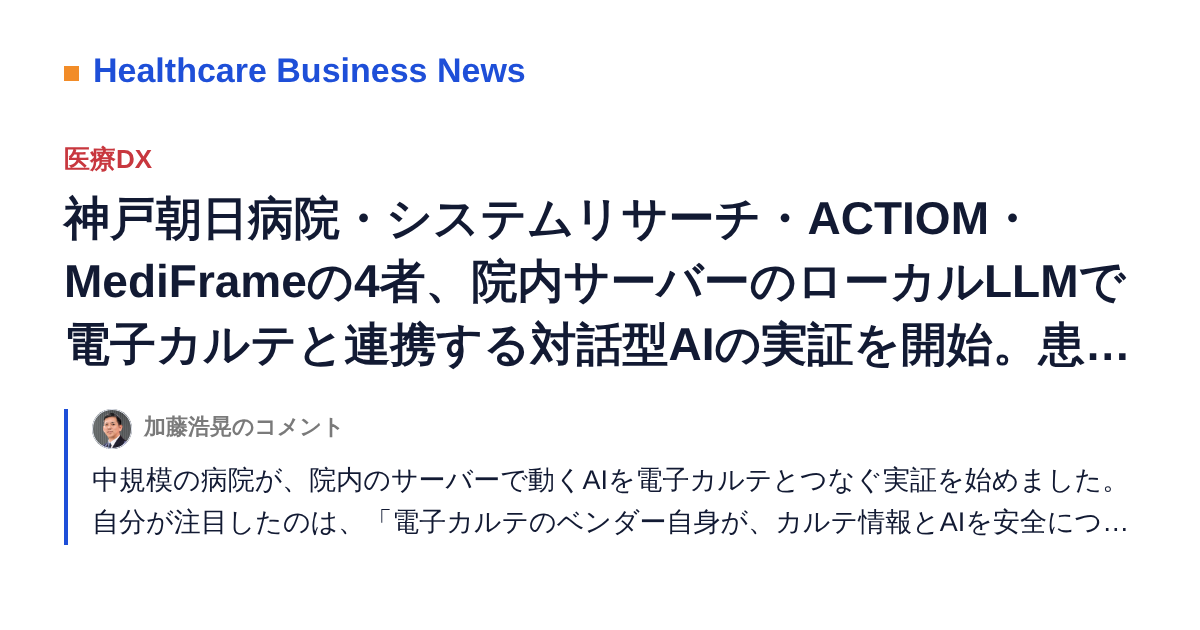
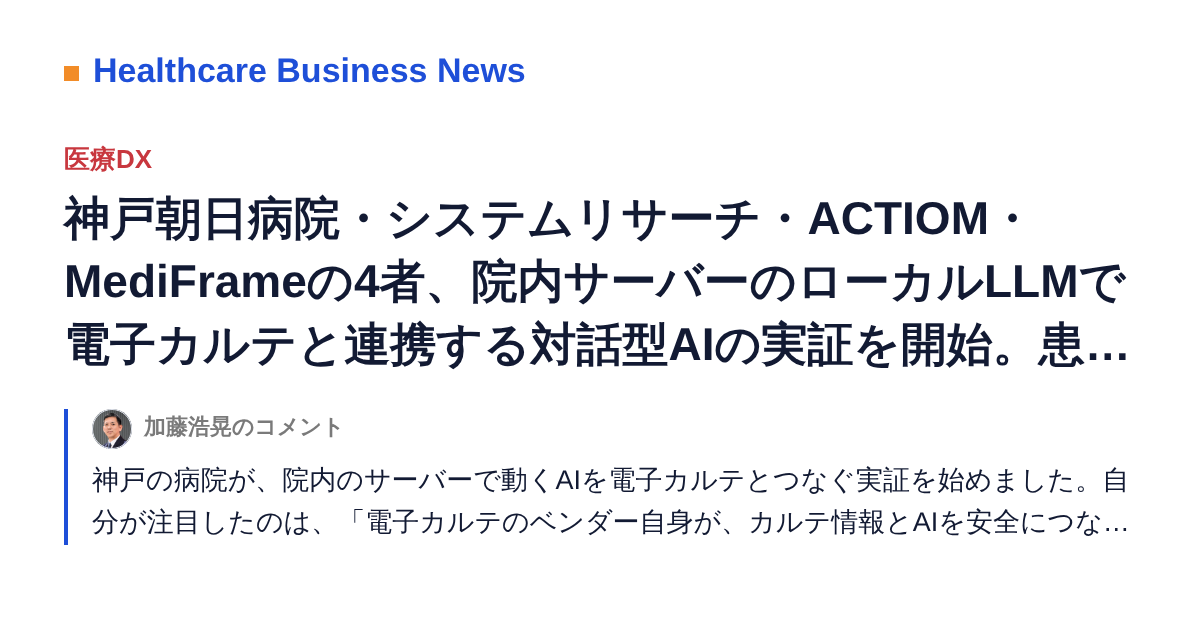
Web: 記事のリンク用カードを更新

Changed region(s): [[0.0617, 0.7238, 0.9558, 0.8746]]

diff --git a/article/2df671ed-3434-4ef1-aedf-7de839b62a33.html b/article/2df671ed-3434-4ef1-aedf-7de839b62a33.html
@@ -447,4 +447,4 @@ input::-webkit-search-cancel-button,input::-webkit-search-decoration,input::-web
 @keyframes r-1pzkwqh{0%{transform:translateY(100%);}100%{transform:translateY(0%);}}
 @keyframes r-imtty0{0%{opacity:0;}100%{opacity:1;}}
 @keyframes r-q67da2{0%{transform:translateX(-100%);}100%{transform:translateX(400%);}}
-@keyframes r-t2lo5v{0%{opacity:1;}100%{opacity:0;}}</style><link rel="stylesheet" href="/healthbiz-news/_expo/static/css/native-tabs.module-78b0f59737571f455720970791a36bdd.css"/><link rel="stylesheet" href="/healthbiz-news/_expo/static/css/global-313a0104f747083fa8b83096f125922a.css"/><link rel="manifest" href="/healthbiz-news/manifest.json"><meta name="apple-mobile-web-app-capable" content="yes"><meta name="mobile-web-app-capable" content="yes"><meta name="apple-mobile-web-app-status-bar-style" content="default"><meta name="apple-mobile-web-app-title" content="HB News"><link rel="apple-touch-icon" href="/healthbiz-news/apple-touch-icon.png"><meta name="theme-color" content="#1E4FD8"><style>.hb-topband{display:none}@media (display-mode: standalone){.hb-topband{display:block;position:fixed;top:0;left:0;right:0;height:12px;background:#FFFFFF;z-index:2147483647;pointer-events:none}}@media (display-mode: standalone) and (prefers-color-scheme: dark){.hb-topband{background:#111214}}</style><script async src="https://www.googletagmanager.com/gtag/js?id=G-PYC7DZRBKW"></script><script>window.dataLayer=window.dataLayer||[];function gtag(){dataLayer.push(arguments);}window.gtag=gtag;gtag('js',new Date());gtag('config','G-PYC7DZRBKW',{send_page_view:false,anonymize_ip:true});</script><title>神戸朝日病院・システムリサーチ・ACTIOM・MediFrameの4者、院内サーバーのローカルLLMで電子カルテと連携する対話型AIの実証を開始。患者情報を外部に送らず文書作成や検索を支援｜Healthcare Business News</title><meta name="description" content="中規模の病院が、院内のサーバーで動くAIを電子カルテとつなぐ実証を始めました。自分が注目したのは、「電子カルテのベンダー自身が、カルテ情報とAIを安全につなぐ仕組みを支援している」ところです。病院のAI導入で一番の壁は情"><meta property="og:type" content="article"><meta property="og:site_name" content="Healthcare Business News"><meta property="og:title" content="神戸朝日病院・システムリサーチ・ACTIOM・MediFrameの4者、院内サーバーのローカルLLMで電子カルテと連携する対話型AIの実証を開始。患者情報を外部に送らず文書作成や検索を支援"><meta property="og:description" content="中規模の病院が、院内のサーバーで動くAIを電子カルテとつなぐ実証を始めました。自分が注目したのは、「電子カルテのベンダー自身が、カルテ情報とAIを安全につなぐ仕組みを支援している」ところです。病院のAI導入で一番の壁は情"><meta property="og:url" content="https://hirokato-med.github.io/healthbiz-news/article/2df671ed-3434-4ef1-aedf-7de839b62a33"><meta property="og:image" content="https://hirokato-med.github.io/healthbiz-news/og/2df671ed-3434-4ef1-aedf-7de839b62a33.png?v=6a3915e9a84b"><meta property="og:image:width" content="1200"><meta property="og:image:height" content="630"><meta name="twitter:card" content="summary_large_image"></head><body><div id="root"><!--$--><div class="css-g5y9jx r-13awgt0"><!--$--><div style="position:absolute;left:0;right:0;top:0;bottom:0;pointer-events:none;visibility:hidden"></div><div class="css-g5y9jx r-13awgt0"><div class="css-g5y9jx r-13awgt0 r-1p0dtai r-1d2f490 r-u8s1d r-zchlnj r-ipm5af" style="background-color:rgba(242,242,242,1.00);display:flex"><div class="css-g5y9jx r-13awgt0"><div class="css-g5y9jx r-13awgt0"><!--$--><div style="position:absolute;left:0;right:0;top:0;bottom:0;pointer-events:none;visibility:hidden"></div><div class="css-g5y9jx r-13awgt0" style="flex-direction:column"><div class="css-g5y9jx r-13awgt0 r-1udh08x"><div class="css-g5y9jx r-1p0dtai r-1d2f490 r-u8s1d r-zchlnj r-ipm5af" style="z-index:0"><div class="css-g5y9jx r-13awgt0" style="background-color:rgba(242,242,242,1.00)"><div class="css-g5y9jx r-13awgt0"><!--$--><div class="css-g5y9jx r-13awgt0" style="background-color:rgba(255,255,255,1.00)"><div class="css-g5y9jx" style="padding-top:18px"><div class="css-g5y9jx"><div class="css-g5y9jx r-1awozwy r-18u37iz r-1wtj0ep r-iphfwy r-3pj75a"><div class="css-g5y9jx"><div dir="auto" class="css-146c3p1 r-b88u0q r-hbpseb r-1i10wst" style="color:rgba(18,26,51,1.00);font-family:var(--font-sans)">Healthcare Business News</div><div dir="auto" class="css-146c3p1 r-1gkfh8e r-1f529hi" style="color:rgba(122,122,122,1.00);font-family:var(--font-sans)">加藤浩晃のヘルスケアビジネスニュース</div></div><div class="css-g5y9jx r-obd0qt r-ojf8lh"><div dir="auto" class="css-146c3p1 r-1enofrn r-1cwl3u0 r-1ghxqbu" style="color:rgba(122,122,122,1.00);font-family:var(--font-sans)">11月14日（土）</div><button aria-label="記事を検索" role="button" tabindex="0" class="css-g5y9jx r-1loqt21 r-1otgn73 r-kdyh1x r-cnw61z r-is05cd" style="background-color:rgba(242,245,253,1.00);opacity:1" type="button"><div dir="auto" class="css-146c3p1 r-1enofrn r-1cwl3u0" style="font-family:var(--font-sans);color:rgba(30,79,216,1.00);font-weight:700">🔍 検索</div></button></div></div><div class="css-g5y9jx r-150rngu r-18u37iz r-1wbh5a2 r-lltvgl r-buy8e9 r-agouwx r-qklmqi r-18kxxzh r-2eszeu" style="border-bottom-color:rgba(227,231,240,1.00)"><div class="css-g5y9jx r-18u37iz r-is05cd"><div role="tab" tabindex="0" class="css-g5y9jx r-1loqt21 r-1otgn73 r-1cmwbt1 r-3o4zer r-ttdzmv"><div dir="auto" class="css-146c3p1 r-a023e6 r-rjixqe" style="font-family:var(--font-sans);color:rgba(30,79,216,1.00);font-weight:700">トップ</div><div class="css-g5y9jx r-1iymjk7 r-s2skl2 r-1hlnpa" style="background-color:rgba(30,79,216,1.00)"></div></div><div role="tab" tabindex="0" class="css-g5y9jx r-1loqt21 r-1otgn73 r-1cmwbt1 r-3o4zer r-ttdzmv"><div dir="auto" class="css-146c3p1 r-a023e6 r-rjixqe" style="font-family:var(--font-sans);color:rgba(122,122,122,1.00);font-weight:500">医療機器</div><div class="css-g5y9jx r-1iymjk7 r-s2skl2 r-1hlnpa" style="background-color:rgba(0,0,0,0.00)"></div></div><div role="tab" tabindex="0" class="css-g5y9jx r-1loqt21 r-1otgn73 r-1cmwbt1 r-3o4zer r-ttdzmv"><div dir="auto" class="css-146c3p1 r-a023e6 r-rjixqe" style="font-family:var(--font-sans);color:rgba(122,122,122,1.00);font-weight:500">ウェアラブル</div><div class="css-g5y9jx r-1iymjk7 r-s2skl2 r-1hlnpa" style="background-color:rgba(0,0,0,0.00)"></div></div><div role="tab" tabindex="0" class="css-g5y9jx r-1loqt21 r-1otgn73 r-1cmwbt1 r-3o4zer r-ttdzmv"><div dir="auto" class="css-146c3p1 r-a023e6 r-rjixqe" style="font-family:var(--font-sans);color:rgba(122,122,122,1.00);font-weight:500">ロンジェビティ</div><div class="css-g5y9jx r-1iymjk7 r-s2skl2 r-1hlnpa" style="background-color:rgba(0,0,0,0.00)"></div></div><div role="tab" tabindex="0" class="css-g5y9jx r-1loqt21 r-1otgn73 r-1cmwbt1 r-3o4zer r-ttdzmv"><div dir="auto" class="css-146c3p1 r-a023e6 r-rjixqe" style="font-family:var(--font-sans);color:rgba(122,122,122,1.00);font-weight:500">製薬・創薬</div><div class="css-g5y9jx r-1iymjk7 r-s2skl2 r-1hlnpa" style="background-color:rgba(0,0,0,0.00)"></div></div><div role="tab" tabindex="0" class="css-g5y9jx r-1loqt21 r-1otgn73 r-1cmwbt1 r-3o4zer r-ttdzmv"><div dir="auto" class="css-146c3p1 r-a023e6 r-rjixqe" style="font-family:var(--font-sans);color:rgba(122,122,122,1.00);font-weight:500">デジタルヘルス</div><div class="css-g5y9jx r-1iymjk7 r-s2skl2 r-1hlnpa" style="background-color:rgba(0,0,0,0.00)"></div></div><div role="tab" tabindex="0" class="css-g5y9jx r-1loqt21 r-1otgn73 r-1cmwbt1 r-3o4zer r-ttdzmv"><div dir="auto" class="css-146c3p1 r-a023e6 r-rjixqe" style="font-family:var(--font-sans);color:rgba(122,122,122,1.00);font-weight:500">医療DX</div><div class="css-g5y9jx r-1iymjk7 r-s2skl2 r-1hlnpa" style="background-color:rgba(0,0,0,0.00)"></div></div><div role="tab" tabindex="0" class="css-g5y9jx r-1loqt21 r-1otgn73 r-1cmwbt1 r-3o4zer r-ttdzmv"><div dir="auto" class="css-146c3p1 r-a023e6 r-rjixqe" style="font-family:var(--font-sans);color:rgba(122,122,122,1.00);font-weight:500">ヘルスケアサービス</div><div class="css-g5y9jx r-1iymjk7 r-s2skl2 r-1hlnpa" style="background-color:rgba(0,0,0,0.00)"></div></div><div role="tab" tabindex="0" class="css-g5y9jx r-1loqt21 r-1otgn73 r-1cmwbt1 r-3o4zer r-ttdzmv"><div dir="auto" class="css-146c3p1 r-a023e6 r-rjixqe" style="font-family:var(--font-sans);color:rgba(122,122,122,1.00);font-weight:500">政策・規制</div><div class="css-g5y9jx r-1iymjk7 r-s2skl2 r-1hlnpa" style="background-color:rgba(0,0,0,0.00)"></div></div><div role="tab" tabindex="0" class="css-g5y9jx r-1loqt21 r-1otgn73 r-1cmwbt1 r-3o4zer r-ttdzmv"><div dir="auto" class="css-146c3p1 r-a023e6 r-rjixqe" style="font-family:var(--font-sans);color:rgba(122,122,122,1.00);font-weight:500">決算</div><div class="css-g5y9jx r-1iymjk7 r-s2skl2 r-1hlnpa" style="background-color:rgba(0,0,0,0.00)"></div></div><div role="tab" tabindex="0" class="css-g5y9jx r-1loqt21 r-1otgn73 r-1cmwbt1 r-3o4zer r-ttdzmv"><div dir="auto" class="css-146c3p1 r-a023e6 r-rjixqe" style="font-family:var(--font-sans);color:rgba(122,122,122,1.00);font-weight:500">海外</div><div class="css-g5y9jx r-1iymjk7 r-s2skl2 r-1hlnpa" style="background-color:rgba(0,0,0,0.00)"></div></div><div role="tab" tabindex="0" class="css-g5y9jx r-1loqt21 r-1otgn73 r-1cmwbt1 r-3o4zer r-ttdzmv"><div dir="auto" class="css-146c3p1 r-a023e6 r-rjixqe" style="font-family:var(--font-sans);color:rgba(122,122,122,1.00);font-weight:500">メルマガ</div><div class="css-g5y9jx r-1iymjk7 r-s2skl2 r-1hlnpa" style="background-color:rgba(0,0,0,0.00)"></div></div></div></div></div><button aria-label="記事を更新" role="button" tabindex="0" class="css-g5y9jx r-1loqt21 r-1otgn73 r-1yd117h r-3pj75a" style="background-color:rgba(242,245,253,1.00)" type="button"><div class="css-g5y9jx r-1awozwy r-18u37iz r-1ssbvtb"><div dir="auto" class="css-146c3p1 r-dnmrzs r-1udh08x r-1udbk01 r-3s2u2q r-1iln25a r-1enofrn r-1cwl3u0" style="color:rgba(122,122,122,1.00);font-family:var(--font-sans)">最新の配信</div><div dir="auto" class="css-146c3p1 r-dnmrzs r-1udh08x r-1udbk01 r-3s2u2q r-1iln25a r-1enofrn r-1cwl3u0 r-13awgt0 r-1ghxqbu r-b88u0q" style="font-family:var(--font-sans);color:rgba(122,122,122,1.00)">読み込み中…</div><div dir="auto" class="css-146c3p1 r-dnmrzs r-1udh08x r-1udbk01 r-3s2u2q r-1iln25a r-1enofrn r-1cwl3u0 r-1ghxqbu" style="color:rgba(122,122,122,1.00);font-family:var(--font-sans)"></div></div></button></div><div class="css-g5y9jx r-13awgt0"></div></div><!--/$--></div></div></div></div><div class="css-g5y9jx r-1p0dtai r-zchlnj r-1d2f490" style="pointer-events:auto;border-top-width:1px;border-right-color:rgba(216,216,216,1.00);border-bottom-color:rgba(216,216,216,1.00);border-left-color:rgba(216,216,216,1.00);height:49px;padding-bottom:0px;padding-top:0px;padding-right:0px;padding-left:0px;background-color:rgba(255,255,255,1.00);border-top-color:rgba(227,231,240,1.00);transform:translateY(0px)"><div class="css-g5y9jx r-1p0dtai r-1d2f490 r-u8s1d r-zchlnj r-ipm5af r-633pao"></div><div role="tablist" class="css-g5y9jx r-13awgt0 r-18u37iz"><div class="css-g5y9jx r-13awgt0" style="border-top-left-radius:0px;border-top-right-radius:0px;border-bottom-right-radius:0px;border-bottom-left-radius:0px;overflow-x:visible;overflow-y:visible"><a href="/healthbiz-news/" role="tab" aria-selected="true" tabindex="0" class="css-g5y9jx r-1otgn73 r-1awozwy r-1onu96p r-eqz5dr r-1h0z5md r-1uu6nss" style="cursor:pointer;flex:1;background-color:rgba(0,0,0,0.00);border-top-left-radius:0px;border-top-right-radius:0px;border-bottom-right-radius:0px;border-bottom-left-radius:0px;opacity:1"><div class="css-g5y9jx r-h0d30l r-726pan"><div class="css-g5y9jx r-1awozwy r-1kihuf0 r-1pi2tsx r-1777fci r-u8s1d r-13qz1uu" style="opacity:1;min-width:25px"><div dir="auto" class="css-146c3p1" style="color:rgba(30,79,216,1.00);font-size:18px">▤</div></div><div class="css-g5y9jx r-1awozwy r-1kihuf0 r-1pi2tsx r-1777fci r-u8s1d r-13qz1uu" style="opacity:0"><div dir="auto" class="css-146c3p1" style="color:rgba(122,122,122,1.00);font-size:18px">▤</div></div></div><div dir="auto" class="css-146c3p1 r-dnmrzs r-1udh08x r-1udbk01 r-3s2u2q r-1iln25a r-1niwhzg r-q4m81j r-10x49cs" style="color:rgba(30,79,216,1.00);font-family:system-ui, &quot;Segoe UI&quot;, Roboto, Helvetica, Arial, sans-serif, &quot;Apple Color Emoji&quot;, &quot;Segoe UI Emoji&quot;, &quot;Segoe UI Symbol&quot;;font-weight:500">トップ</div></a></div><div class="css-g5y9jx r-13awgt0" style="border-top-left-radius:0px;border-top-right-radius:0px;border-bottom-right-radius:0px;border-bottom-left-radius:0px;overflow-x:visible;overflow-y:visible"><a href="/healthbiz-news/saved" role="tab" aria-selected="false" tabindex="0" class="css-g5y9jx r-1otgn73 r-1awozwy r-1onu96p r-eqz5dr r-1h0z5md r-1uu6nss" style="cursor:pointer;flex:1;background-color:rgba(0,0,0,0.00);border-top-left-radius:0px;border-top-right-radius:0px;border-bottom-right-radius:0px;border-bottom-left-radius:0px;opacity:1"><div class="css-g5y9jx r-h0d30l r-726pan"><div class="css-g5y9jx r-1awozwy r-1kihuf0 r-1pi2tsx r-1777fci r-u8s1d r-13qz1uu" style="opacity:0;min-width:25px"><div dir="auto" class="css-146c3p1" style="color:rgba(30,79,216,1.00);font-size:18px">☆</div></div><div class="css-g5y9jx r-1awozwy r-1kihuf0 r-1pi2tsx r-1777fci r-u8s1d r-13qz1uu" style="opacity:1"><div dir="auto" class="css-146c3p1" style="color:rgba(122,122,122,1.00);font-size:18px">☆</div></div></div><div dir="auto" class="css-146c3p1 r-dnmrzs r-1udh08x r-1udbk01 r-3s2u2q r-1iln25a r-1niwhzg r-q4m81j r-10x49cs" style="color:rgba(122,122,122,1.00);font-family:system-ui, &quot;Segoe UI&quot;, Roboto, Helvetica, Arial, sans-serif, &quot;Apple Color Emoji&quot;, &quot;Segoe UI Emoji&quot;, &quot;Segoe UI Symbol&quot;;font-weight:500">保存</div></a></div><div class="css-g5y9jx r-13awgt0" style="border-top-left-radius:0px;border-top-right-radius:0px;border-bottom-right-radius:0px;border-bottom-left-radius:0px;overflow-x:visible;overflow-y:visible"><a href="/healthbiz-news/about" role="tab" aria-selected="false" tabindex="0" class="css-g5y9jx r-1otgn73 r-1awozwy r-1onu96p r-eqz5dr r-1h0z5md r-1uu6nss" style="cursor:pointer;flex:1;background-color:rgba(0,0,0,0.00);border-top-left-radius:0px;border-top-right-radius:0px;border-bottom-right-radius:0px;border-bottom-left-radius:0px;opacity:1"><div class="css-g5y9jx r-h0d30l r-726pan"><div class="css-g5y9jx r-1awozwy r-1kihuf0 r-1pi2tsx r-1777fci r-u8s1d r-13qz1uu" style="opacity:0;min-width:25px"><div dir="auto" class="css-146c3p1" style="color:rgba(30,79,216,1.00);font-size:18px">ⓘ</div></div><div class="css-g5y9jx r-1awozwy r-1kihuf0 r-1pi2tsx r-1777fci r-u8s1d r-13qz1uu" style="opacity:1"><div dir="auto" class="css-146c3p1" style="color:rgba(122,122,122,1.00);font-size:18px">ⓘ</div></div></div><div dir="auto" class="css-146c3p1 r-dnmrzs r-1udh08x r-1udbk01 r-3s2u2q r-1iln25a r-1niwhzg r-q4m81j r-10x49cs" style="color:rgba(122,122,122,1.00);font-family:system-ui, &quot;Segoe UI&quot;, Roboto, Helvetica, Arial, sans-serif, &quot;Apple Color Emoji&quot;, &quot;Segoe UI Emoji&quot;, &quot;Segoe UI Symbol&quot;;font-weight:500">このアプリ</div></a></div></div></div></div><!--/$--></div></div></div></div><!--/$--></div><!--/$--></div><script defer="" src="/healthbiz-news/_expo/static/js/web/__expo-metro-runtime-8c088df87a31e4e6accd81c554ec290d.js"></script><script defer="" src="/healthbiz-news/_expo/static/js/web/_layout-b9aab1fa9006b441d7601c25dd7ca37c.js"></script><script defer="" src="/healthbiz-news/_expo/static/js/web/_layout-8aafe5f985152c330af6f81e3dc0b4ce.js"></script><script defer="" src="/healthbiz-news/_expo/static/js/web/index-f62bc68591a5a53b5ec6327f08ef224e.js"></script><script defer="" src="/healthbiz-news/_expo/static/js/web/__common-1efa4f8851c3c26c5733a85f7bb25840.js"></script><script defer="" src="/healthbiz-news/_expo/static/js/web/entry-9b5d24407d312d65f34d2b1d7c96e683.js"></script><script id="_R_">globalThis.__EXPO_ROUTER_HYDRATE__=true;</script><div class="hb-topband" aria-hidden="true"></div></body></html>
+@keyframes r-t2lo5v{0%{opacity:1;}100%{opacity:0;}}</style><link rel="stylesheet" href="/healthbiz-news/_expo/static/css/native-tabs.module-78b0f59737571f455720970791a36bdd.css"/><link rel="stylesheet" href="/healthbiz-news/_expo/static/css/global-313a0104f747083fa8b83096f125922a.css"/><link rel="manifest" href="/healthbiz-news/manifest.json"><meta name="apple-mobile-web-app-capable" content="yes"><meta name="mobile-web-app-capable" content="yes"><meta name="apple-mobile-web-app-status-bar-style" content="default"><meta name="apple-mobile-web-app-title" content="HB News"><link rel="apple-touch-icon" href="/healthbiz-news/apple-touch-icon.png"><meta name="theme-color" content="#1E4FD8"><style>.hb-topband{display:none}@media (display-mode: standalone){.hb-topband{display:block;position:fixed;top:0;left:0;right:0;height:12px;background:#FFFFFF;z-index:2147483647;pointer-events:none}}@media (display-mode: standalone) and (prefers-color-scheme: dark){.hb-topband{background:#111214}}</style><script async src="https://www.googletagmanager.com/gtag/js?id=G-PYC7DZRBKW"></script><script>window.dataLayer=window.dataLayer||[];function gtag(){dataLayer.push(arguments);}window.gtag=gtag;gtag('js',new Date());gtag('config','G-PYC7DZRBKW',{send_page_view:false,anonymize_ip:true});</script><title>神戸朝日病院・システムリサーチ・ACTIOM・MediFrameの4者、院内サーバーのローカルLLMで電子カルテと連携する対話型AIの実証を開始。患者情報を外部に送らず文書作成や検索を支援｜Healthcare Business News</title><meta name="description" content="神戸の病院が、院内のサーバーで動くAIを電子カルテとつなぐ実証を始めました。自分が注目したのは、「電子カルテのベンダー自身が、カルテ情報とAIを安全につなぐ仕組みを支援している」ところです。病院のAI導入で一番の壁は情報"><meta property="og:type" content="article"><meta property="og:site_name" content="Healthcare Business News"><meta property="og:title" content="神戸朝日病院・システムリサーチ・ACTIOM・MediFrameの4者、院内サーバーのローカルLLMで電子カルテと連携する対話型AIの実証を開始。患者情報を外部に送らず文書作成や検索を支援"><meta property="og:description" content="神戸の病院が、院内のサーバーで動くAIを電子カルテとつなぐ実証を始めました。自分が注目したのは、「電子カルテのベンダー自身が、カルテ情報とAIを安全につなぐ仕組みを支援している」ところです。病院のAI導入で一番の壁は情報"><meta property="og:url" content="https://hirokato-med.github.io/healthbiz-news/article/2df671ed-3434-4ef1-aedf-7de839b62a33"><meta property="og:image" content="https://hirokato-med.github.io/healthbiz-news/og/2df671ed-3434-4ef1-aedf-7de839b62a33.png?v=44c1d07f7939"><meta property="og:image:width" content="1200"><meta property="og:image:height" content="630"><meta name="twitter:card" content="summary_large_image"></head><body><div id="root"><!--$--><div class="css-g5y9jx r-13awgt0"><!--$--><div style="position:absolute;left:0;right:0;top:0;bottom:0;pointer-events:none;visibility:hidden"></div><div class="css-g5y9jx r-13awgt0"><div class="css-g5y9jx r-13awgt0 r-1p0dtai r-1d2f490 r-u8s1d r-zchlnj r-ipm5af" style="background-color:rgba(242,242,242,1.00);display:flex"><div class="css-g5y9jx r-13awgt0"><div class="css-g5y9jx r-13awgt0"><!--$--><div style="position:absolute;left:0;right:0;top:0;bottom:0;pointer-events:none;visibility:hidden"></div><div class="css-g5y9jx r-13awgt0" style="flex-direction:column"><div class="css-g5y9jx r-13awgt0 r-1udh08x"><div class="css-g5y9jx r-1p0dtai r-1d2f490 r-u8s1d r-zchlnj r-ipm5af" style="z-index:0"><div class="css-g5y9jx r-13awgt0" style="background-color:rgba(242,242,242,1.00)"><div class="css-g5y9jx r-13awgt0"><!--$--><div class="css-g5y9jx r-13awgt0" style="background-color:rgba(255,255,255,1.00)"><div class="css-g5y9jx" style="padding-top:18px"><div class="css-g5y9jx"><div class="css-g5y9jx r-1awozwy r-18u37iz r-1wtj0ep r-iphfwy r-3pj75a"><div class="css-g5y9jx"><div dir="auto" class="css-146c3p1 r-b88u0q r-hbpseb r-1i10wst" style="color:rgba(18,26,51,1.00);font-family:var(--font-sans)">Healthcare Business News</div><div dir="auto" class="css-146c3p1 r-1gkfh8e r-1f529hi" style="color:rgba(122,122,122,1.00);font-family:var(--font-sans)">加藤浩晃のヘルスケアビジネスニュース</div></div><div class="css-g5y9jx r-obd0qt r-ojf8lh"><div dir="auto" class="css-146c3p1 r-1enofrn r-1cwl3u0 r-1ghxqbu" style="color:rgba(122,122,122,1.00);font-family:var(--font-sans)">11月14日（土）</div><button aria-label="記事を検索" role="button" tabindex="0" class="css-g5y9jx r-1loqt21 r-1otgn73 r-kdyh1x r-cnw61z r-is05cd" style="background-color:rgba(242,245,253,1.00);opacity:1" type="button"><div dir="auto" class="css-146c3p1 r-1enofrn r-1cwl3u0" style="font-family:var(--font-sans);color:rgba(30,79,216,1.00);font-weight:700">🔍 検索</div></button></div></div><div class="css-g5y9jx r-150rngu r-18u37iz r-1wbh5a2 r-lltvgl r-buy8e9 r-agouwx r-qklmqi r-18kxxzh r-2eszeu" style="border-bottom-color:rgba(227,231,240,1.00)"><div class="css-g5y9jx r-18u37iz r-is05cd"><div role="tab" tabindex="0" class="css-g5y9jx r-1loqt21 r-1otgn73 r-1cmwbt1 r-3o4zer r-ttdzmv"><div dir="auto" class="css-146c3p1 r-a023e6 r-rjixqe" style="font-family:var(--font-sans);color:rgba(30,79,216,1.00);font-weight:700">トップ</div><div class="css-g5y9jx r-1iymjk7 r-s2skl2 r-1hlnpa" style="background-color:rgba(30,79,216,1.00)"></div></div><div role="tab" tabindex="0" class="css-g5y9jx r-1loqt21 r-1otgn73 r-1cmwbt1 r-3o4zer r-ttdzmv"><div dir="auto" class="css-146c3p1 r-a023e6 r-rjixqe" style="font-family:var(--font-sans);color:rgba(122,122,122,1.00);font-weight:500">医療機器</div><div class="css-g5y9jx r-1iymjk7 r-s2skl2 r-1hlnpa" style="background-color:rgba(0,0,0,0.00)"></div></div><div role="tab" tabindex="0" class="css-g5y9jx r-1loqt21 r-1otgn73 r-1cmwbt1 r-3o4zer r-ttdzmv"><div dir="auto" class="css-146c3p1 r-a023e6 r-rjixqe" style="font-family:var(--font-sans);color:rgba(122,122,122,1.00);font-weight:500">ウェアラブル</div><div class="css-g5y9jx r-1iymjk7 r-s2skl2 r-1hlnpa" style="background-color:rgba(0,0,0,0.00)"></div></div><div role="tab" tabindex="0" class="css-g5y9jx r-1loqt21 r-1otgn73 r-1cmwbt1 r-3o4zer r-ttdzmv"><div dir="auto" class="css-146c3p1 r-a023e6 r-rjixqe" style="font-family:var(--font-sans);color:rgba(122,122,122,1.00);font-weight:500">ロンジェビティ</div><div class="css-g5y9jx r-1iymjk7 r-s2skl2 r-1hlnpa" style="background-color:rgba(0,0,0,0.00)"></div></div><div role="tab" tabindex="0" class="css-g5y9jx r-1loqt21 r-1otgn73 r-1cmwbt1 r-3o4zer r-ttdzmv"><div dir="auto" class="css-146c3p1 r-a023e6 r-rjixqe" style="font-family:var(--font-sans);color:rgba(122,122,122,1.00);font-weight:500">製薬・創薬</div><div class="css-g5y9jx r-1iymjk7 r-s2skl2 r-1hlnpa" style="background-color:rgba(0,0,0,0.00)"></div></div><div role="tab" tabindex="0" class="css-g5y9jx r-1loqt21 r-1otgn73 r-1cmwbt1 r-3o4zer r-ttdzmv"><div dir="auto" class="css-146c3p1 r-a023e6 r-rjixqe" style="font-family:var(--font-sans);color:rgba(122,122,122,1.00);font-weight:500">デジタルヘルス</div><div class="css-g5y9jx r-1iymjk7 r-s2skl2 r-1hlnpa" style="background-color:rgba(0,0,0,0.00)"></div></div><div role="tab" tabindex="0" class="css-g5y9jx r-1loqt21 r-1otgn73 r-1cmwbt1 r-3o4zer r-ttdzmv"><div dir="auto" class="css-146c3p1 r-a023e6 r-rjixqe" style="font-family:var(--font-sans);color:rgba(122,122,122,1.00);font-weight:500">医療DX</div><div class="css-g5y9jx r-1iymjk7 r-s2skl2 r-1hlnpa" style="background-color:rgba(0,0,0,0.00)"></div></div><div role="tab" tabindex="0" class="css-g5y9jx r-1loqt21 r-1otgn73 r-1cmwbt1 r-3o4zer r-ttdzmv"><div dir="auto" class="css-146c3p1 r-a023e6 r-rjixqe" style="font-family:var(--font-sans);color:rgba(122,122,122,1.00);font-weight:500">ヘルスケアサービス</div><div class="css-g5y9jx r-1iymjk7 r-s2skl2 r-1hlnpa" style="background-color:rgba(0,0,0,0.00)"></div></div><div role="tab" tabindex="0" class="css-g5y9jx r-1loqt21 r-1otgn73 r-1cmwbt1 r-3o4zer r-ttdzmv"><div dir="auto" class="css-146c3p1 r-a023e6 r-rjixqe" style="font-family:var(--font-sans);color:rgba(122,122,122,1.00);font-weight:500">政策・規制</div><div class="css-g5y9jx r-1iymjk7 r-s2skl2 r-1hlnpa" style="background-color:rgba(0,0,0,0.00)"></div></div><div role="tab" tabindex="0" class="css-g5y9jx r-1loqt21 r-1otgn73 r-1cmwbt1 r-3o4zer r-ttdzmv"><div dir="auto" class="css-146c3p1 r-a023e6 r-rjixqe" style="font-family:var(--font-sans);color:rgba(122,122,122,1.00);font-weight:500">決算</div><div class="css-g5y9jx r-1iymjk7 r-s2skl2 r-1hlnpa" style="background-color:rgba(0,0,0,0.00)"></div></div><div role="tab" tabindex="0" class="css-g5y9jx r-1loqt21 r-1otgn73 r-1cmwbt1 r-3o4zer r-ttdzmv"><div dir="auto" class="css-146c3p1 r-a023e6 r-rjixqe" style="font-family:var(--font-sans);color:rgba(122,122,122,1.00);font-weight:500">海外</div><div class="css-g5y9jx r-1iymjk7 r-s2skl2 r-1hlnpa" style="background-color:rgba(0,0,0,0.00)"></div></div><div role="tab" tabindex="0" class="css-g5y9jx r-1loqt21 r-1otgn73 r-1cmwbt1 r-3o4zer r-ttdzmv"><div dir="auto" class="css-146c3p1 r-a023e6 r-rjixqe" style="font-family:var(--font-sans);color:rgba(122,122,122,1.00);font-weight:500">メルマガ</div><div class="css-g5y9jx r-1iymjk7 r-s2skl2 r-1hlnpa" style="background-color:rgba(0,0,0,0.00)"></div></div></div></div></div><button aria-label="記事を更新" role="button" tabindex="0" class="css-g5y9jx r-1loqt21 r-1otgn73 r-1yd117h r-3pj75a" style="background-color:rgba(242,245,253,1.00)" type="button"><div class="css-g5y9jx r-1awozwy r-18u37iz r-1ssbvtb"><div dir="auto" class="css-146c3p1 r-dnmrzs r-1udh08x r-1udbk01 r-3s2u2q r-1iln25a r-1enofrn r-1cwl3u0" style="color:rgba(122,122,122,1.00);font-family:var(--font-sans)">最新の配信</div><div dir="auto" class="css-146c3p1 r-dnmrzs r-1udh08x r-1udbk01 r-3s2u2q r-1iln25a r-1enofrn r-1cwl3u0 r-13awgt0 r-1ghxqbu r-b88u0q" style="font-family:var(--font-sans);color:rgba(122,122,122,1.00)">読み込み中…</div><div dir="auto" class="css-146c3p1 r-dnmrzs r-1udh08x r-1udbk01 r-3s2u2q r-1iln25a r-1enofrn r-1cwl3u0 r-1ghxqbu" style="color:rgba(122,122,122,1.00);font-family:var(--font-sans)"></div></div></button></div><div class="css-g5y9jx r-13awgt0"></div></div><!--/$--></div></div></div></div><div class="css-g5y9jx r-1p0dtai r-zchlnj r-1d2f490" style="pointer-events:auto;border-top-width:1px;border-right-color:rgba(216,216,216,1.00);border-bottom-color:rgba(216,216,216,1.00);border-left-color:rgba(216,216,216,1.00);height:49px;padding-bottom:0px;padding-top:0px;padding-right:0px;padding-left:0px;background-color:rgba(255,255,255,1.00);border-top-color:rgba(227,231,240,1.00);transform:translateY(0px)"><div class="css-g5y9jx r-1p0dtai r-1d2f490 r-u8s1d r-zchlnj r-ipm5af r-633pao"></div><div role="tablist" class="css-g5y9jx r-13awgt0 r-18u37iz"><div class="css-g5y9jx r-13awgt0" style="border-top-left-radius:0px;border-top-right-radius:0px;border-bottom-right-radius:0px;border-bottom-left-radius:0px;overflow-x:visible;overflow-y:visible"><a href="/healthbiz-news/" role="tab" aria-selected="true" tabindex="0" class="css-g5y9jx r-1otgn73 r-1awozwy r-1onu96p r-eqz5dr r-1h0z5md r-1uu6nss" style="cursor:pointer;flex:1;background-color:rgba(0,0,0,0.00);border-top-left-radius:0px;border-top-right-radius:0px;border-bottom-right-radius:0px;border-bottom-left-radius:0px;opacity:1"><div class="css-g5y9jx r-h0d30l r-726pan"><div class="css-g5y9jx r-1awozwy r-1kihuf0 r-1pi2tsx r-1777fci r-u8s1d r-13qz1uu" style="opacity:1;min-width:25px"><div dir="auto" class="css-146c3p1" style="color:rgba(30,79,216,1.00);font-size:18px">▤</div></div><div class="css-g5y9jx r-1awozwy r-1kihuf0 r-1pi2tsx r-1777fci r-u8s1d r-13qz1uu" style="opacity:0"><div dir="auto" class="css-146c3p1" style="color:rgba(122,122,122,1.00);font-size:18px">▤</div></div></div><div dir="auto" class="css-146c3p1 r-dnmrzs r-1udh08x r-1udbk01 r-3s2u2q r-1iln25a r-1niwhzg r-q4m81j r-10x49cs" style="color:rgba(30,79,216,1.00);font-family:system-ui, &quot;Segoe UI&quot;, Roboto, Helvetica, Arial, sans-serif, &quot;Apple Color Emoji&quot;, &quot;Segoe UI Emoji&quot;, &quot;Segoe UI Symbol&quot;;font-weight:500">トップ</div></a></div><div class="css-g5y9jx r-13awgt0" style="border-top-left-radius:0px;border-top-right-radius:0px;border-bottom-right-radius:0px;border-bottom-left-radius:0px;overflow-x:visible;overflow-y:visible"><a href="/healthbiz-news/saved" role="tab" aria-selected="false" tabindex="0" class="css-g5y9jx r-1otgn73 r-1awozwy r-1onu96p r-eqz5dr r-1h0z5md r-1uu6nss" style="cursor:pointer;flex:1;background-color:rgba(0,0,0,0.00);border-top-left-radius:0px;border-top-right-radius:0px;border-bottom-right-radius:0px;border-bottom-left-radius:0px;opacity:1"><div class="css-g5y9jx r-h0d30l r-726pan"><div class="css-g5y9jx r-1awozwy r-1kihuf0 r-1pi2tsx r-1777fci r-u8s1d r-13qz1uu" style="opacity:0;min-width:25px"><div dir="auto" class="css-146c3p1" style="color:rgba(30,79,216,1.00);font-size:18px">☆</div></div><div class="css-g5y9jx r-1awozwy r-1kihuf0 r-1pi2tsx r-1777fci r-u8s1d r-13qz1uu" style="opacity:1"><div dir="auto" class="css-146c3p1" style="color:rgba(122,122,122,1.00);font-size:18px">☆</div></div></div><div dir="auto" class="css-146c3p1 r-dnmrzs r-1udh08x r-1udbk01 r-3s2u2q r-1iln25a r-1niwhzg r-q4m81j r-10x49cs" style="color:rgba(122,122,122,1.00);font-family:system-ui, &quot;Segoe UI&quot;, Roboto, Helvetica, Arial, sans-serif, &quot;Apple Color Emoji&quot;, &quot;Segoe UI Emoji&quot;, &quot;Segoe UI Symbol&quot;;font-weight:500">保存</div></a></div><div class="css-g5y9jx r-13awgt0" style="border-top-left-radius:0px;border-top-right-radius:0px;border-bottom-right-radius:0px;border-bottom-left-radius:0px;overflow-x:visible;overflow-y:visible"><a href="/healthbiz-news/about" role="tab" aria-selected="false" tabindex="0" class="css-g5y9jx r-1otgn73 r-1awozwy r-1onu96p r-eqz5dr r-1h0z5md r-1uu6nss" style="cursor:pointer;flex:1;background-color:rgba(0,0,0,0.00);border-top-left-radius:0px;border-top-right-radius:0px;border-bottom-right-radius:0px;border-bottom-left-radius:0px;opacity:1"><div class="css-g5y9jx r-h0d30l r-726pan"><div class="css-g5y9jx r-1awozwy r-1kihuf0 r-1pi2tsx r-1777fci r-u8s1d r-13qz1uu" style="opacity:0;min-width:25px"><div dir="auto" class="css-146c3p1" style="color:rgba(30,79,216,1.00);font-size:18px">ⓘ</div></div><div class="css-g5y9jx r-1awozwy r-1kihuf0 r-1pi2tsx r-1777fci r-u8s1d r-13qz1uu" style="opacity:1"><div dir="auto" class="css-146c3p1" style="color:rgba(122,122,122,1.00);font-size:18px">ⓘ</div></div></div><div dir="auto" class="css-146c3p1 r-dnmrzs r-1udh08x r-1udbk01 r-3s2u2q r-1iln25a r-1niwhzg r-q4m81j r-10x49cs" style="color:rgba(122,122,122,1.00);font-family:system-ui, &quot;Segoe UI&quot;, Roboto, Helvetica, Arial, sans-serif, &quot;Apple Color Emoji&quot;, &quot;Segoe UI Emoji&quot;, &quot;Segoe UI Symbol&quot;;font-weight:500">このアプリ</div></a></div></div></div></div><!--/$--></div></div></div></div><!--/$--></div><!--/$--></div><script defer="" src="/healthbiz-news/_expo/static/js/web/__expo-metro-runtime-8c088df87a31e4e6accd81c554ec290d.js"></script><script defer="" src="/healthbiz-news/_expo/static/js/web/_layout-b9aab1fa9006b441d7601c25dd7ca37c.js"></script><script defer="" src="/healthbiz-news/_expo/static/js/web/_layout-8aafe5f985152c330af6f81e3dc0b4ce.js"></script><script defer="" src="/healthbiz-news/_expo/static/js/web/index-f62bc68591a5a53b5ec6327f08ef224e.js"></script><script defer="" src="/healthbiz-news/_expo/static/js/web/__common-1efa4f8851c3c26c5733a85f7bb25840.js"></script><script defer="" src="/healthbiz-news/_expo/static/js/web/entry-9b5d24407d312d65f34d2b1d7c96e683.js"></script><script id="_R_">globalThis.__EXPO_ROUTER_HYDRATE__=true;</script><div class="hb-topband" aria-hidden="true"></div></body></html>
